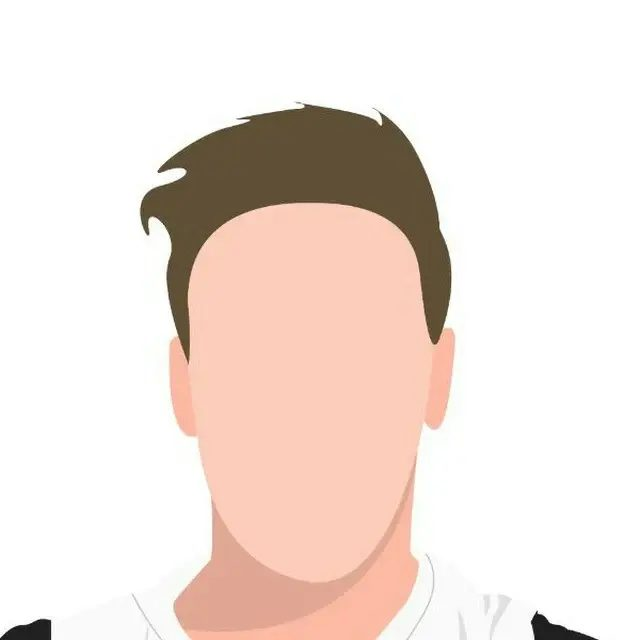
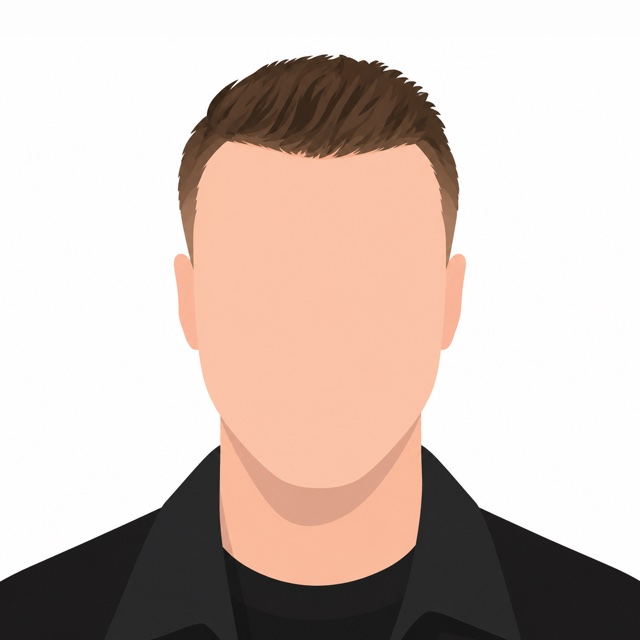
feat: add Buy Me a Coffee link and a new profile picture (#36)

diff --git a/themes/hello-friend-ng/layouts/partials/svg.html b/themes/hello-friend-ng/layouts/partials/svg.html
@@ -5,4 +5,6 @@
     <svg xmlns="http://www.w3.org/2000/svg" width="24" height="24" viewBox="0 0 24 24" fill="none" stroke="currentColor" stroke-width="2" stroke-linecap="round" stroke-linejoin="round"><path d="M9 19c-5 1.5-5-2.5-7-3m14 6v-3.87a3.37 3.37 0 0 0-.94-2.61c3.14-.35 6.44-1.54 6.44-7A5.44 5.44 0 0 0 20 4.77 5.07 5.07 0 0 0 19.91 1S18.73.65 16 2.48a13.38 13.38 0 0 0-7 0C6.27.65 5.09 1 5.09 1A5.07 5.07 0 0 0 5 4.77a5.44 5.44 0 0 0-1.5 3.78c0 5.42 3.3 6.61 6.44 7A3.37 3.37 0 0 0 9 18.13V22"></path></svg>
 {{- else if (eq .name "linkedin") -}}
     <svg xmlns="http://www.w3.org/2000/svg" width="24" height="24" viewBox="0 0 24 24" fill="none" stroke="currentColor" stroke-width="2" stroke-linecap="round" stroke-linejoin="round"><path d="M16 8a6 6 0 0 1 6 6v7h-4v-7a2 2 0 0 0-2-2 2 2 0 0 0-2 2v7h-4v-7a6 6 0 0 1 6-6z"></path><rect x="2" y="9" width="4" height="12"></rect><circle cx="4" cy="4" r="2"></circle></svg>
+{{- else if (eq .name "buy-me-a-coffee") -}}
+    <svg xmlns="http://www.w3.org/2000/svg" width="24" height="24" viewBox="0 0 24 24" fill="none" stroke="currentColor" stroke-width="2" stroke-linecap="round" stroke-linejoin="round"><path d="M18 8h1a4 4 0 0 1 0 8h-1"></path><path d="M2 8h16v9a4 4 0 0 1-4 4H6a4 4 0 0 1-4-4V8z"></path><line x1="6" y1="1" x2="6" y2="4"></line><line x1="10" y1="1" x2="10" y2="4"></line><line x1="14" y1="1" x2="14" y2="4"></line></svg>
 {{- end -}}
